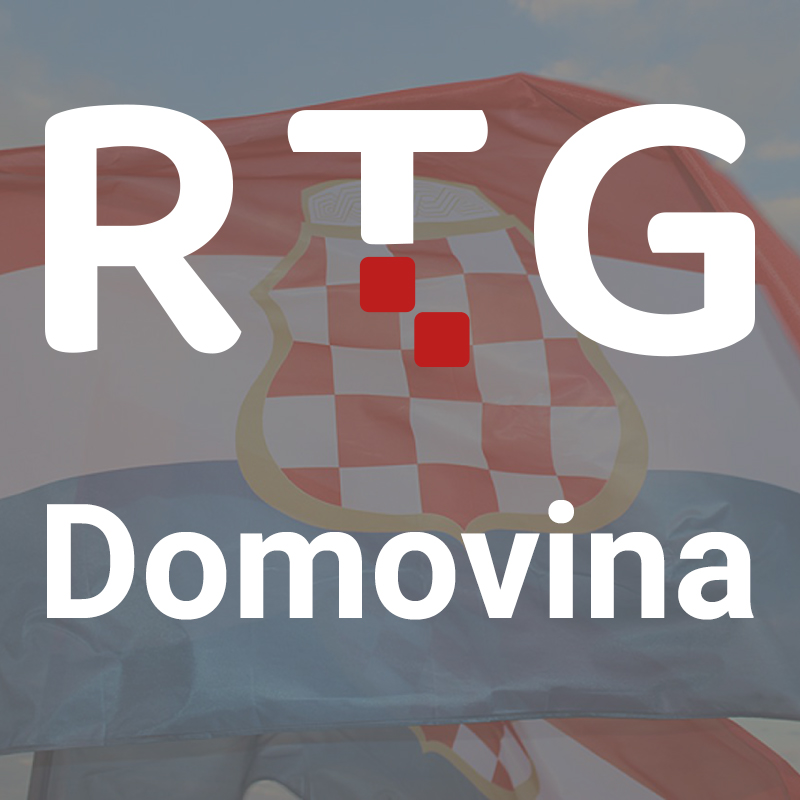
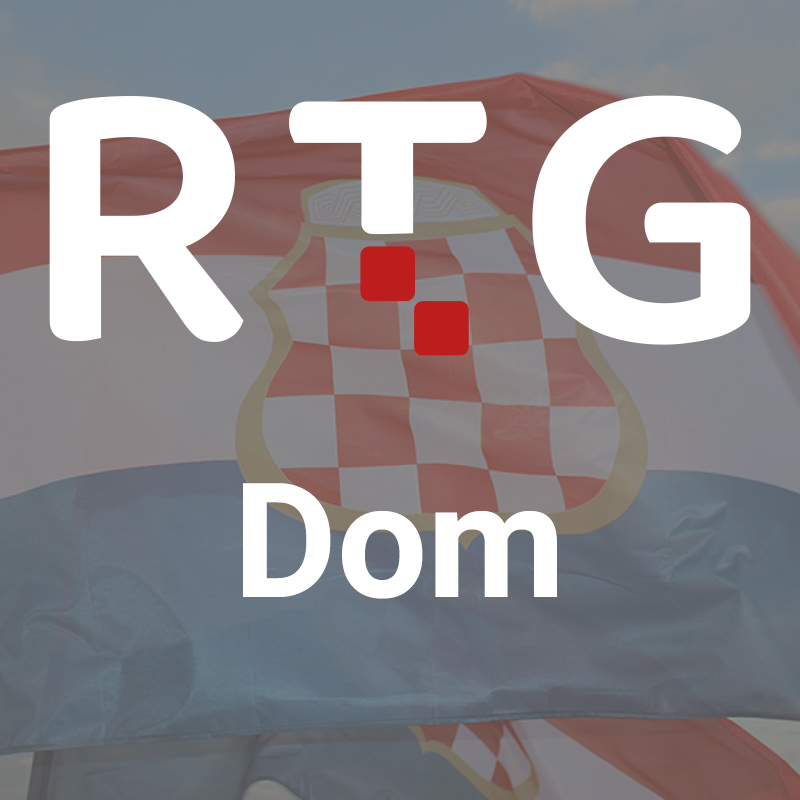
Little fixes and update on android app component

diff --git a/src/data/local/ShowCardData.js b/src/data/local/ShowCardData.js
@@ -13,7 +13,7 @@ export const showCardData = [
     imageUrl: "../../assets/img_strunica.jpg",
     showDescription:
       "Emisija o bastini i narodnim obicajima, Nas voditelj Cipa svake srijede za vas priprema najbolje iz svijeta gange, gusala i narodnih obicaja.",
-    showAirTime: "Srijedom u 16:00",
+    showAirTime: "Srijedom u 16:30",
   },
   {
     showId: "02",
@@ -29,7 +29,7 @@ export const showCardData = [
     imageUrl: "../../assets/img_glazbaonica.jpg",
     showDescription:
       "Emisija koja kroz različite teme govori o glazbi koja se slušala i koja se sluša.",
-    showAirTime: "Utorkom u 16:00",
+    showAirTime: "Utorkom u 16:30",
   },
   {
     showId: "04",
@@ -37,7 +37,7 @@ export const showCardData = [
     imageUrl: "../../assets/img_razgovori.jpg",
     showDescription:
       "Emisija koja je to u pravom smislu riječi. U njoj o svome životu pričaju Duvanjke i Duvnjaci, koji žive ovdje ili negdje u svijetu.",
-    showAirTime: "Ponedjeljkom u 16:00",
+    showAirTime: "Ponedjeljkom u 16:30",
   },
   {
     showId: "05",
@@ -45,7 +45,7 @@ export const showCardData = [
     imageUrl: "../../assets/img_obiteljski.jpg",
     showDescription:
       "Emisije iz arhiva Radija Tomislavgrad. Kroz zvučne zapise listamo stranice obiteljskih uspomena.",
-    showAirTime: "Petkom u 16:00",
+    showAirTime: "Subotom u 16:30",
   },
   {
     showId: "06",
@@ -53,7 +53,7 @@ export const showCardData = [
     imageUrl: "../../assets/img_slusam.jpg",
     showDescription:
       "Edukativna radio slagalica. Emisija o kulturi, znanosti, umjetnosti, ljudima, događajima i pojavama.",
-    showAirTime: "Ponedjeljkom u 16:00",
+    showAirTime: "Ponedjeljkom u 16:30",
   },
   {
     showId: "07",

diff --git a/src/components/AndroidApp.component.jsx b/src/components/AndroidApp.component.jsx
@@ -9,6 +9,10 @@ import {
 
 import BtnFeature from "./BtnFeature.component";
 
+const goToGooglePlayStore = () => {
+  console.log("Go to Google play");
+};
+
 const AndroidApp = () => {
   const [element, controls] = useScroll();
 
@@ -51,15 +55,14 @@ const AndroidApp = () => {
             ref={element}
             className="text-white"
           >
-            Molim vrijednu pcelicu da osmisli nesto genijalno i ovde. Lorem
-            ipsum dolor sit amet, consectetur adipiscing elit. Maecenas et metus
-            dignissim, rhoncus purus at, varius nisl. Nullam ac viverra nisl.
-            Mauris tempus lectus ut odio porttitor, quis lacinia felis
-            sollicitudin. Suspendisse mauris enim, posuere ac justo eget,
-            elementum vulputate nibh. Nulla sit amet dolor in lacus porttitor
-            ullamcorper vel sit amet risus.
+            Preuzmite našu aplikaciju potpuno besplatno s Google play store-a.
+            Nadoknadite propuštene emisije, slušajte RTG Music te još mnogo
+            drugog sadržaja.
           </motion.p>
-          <BtnFeature title="Preuzmite s Google play" />
+          <BtnFeature
+            title="Preuzmite s Google "
+            onClick={goToGooglePlayStore}
+          />
         </div>
       </div>
     </section>

diff --git a/src/components/StreamsSection.component.jsx b/src/components/StreamsSection.component.jsx
@@ -34,7 +34,7 @@ const StreamsSection = ({
     >
       <div className="max-w-con w-full flex justify-start items-center z-10">
         <div className="py-20 w-full">
-          <SectionTitle title="RTG streamovi" />
+          <SectionTitle title="RTG kanali" />
           <motion.p
             variants={revelTextFromLeft}
             initial="hidden"
@@ -82,7 +82,7 @@ const StreamsSection = ({
             />
             <StreamCard
               image={patriotStreamImage}
-              title="RTG Domovina"
+              title="RTG Dom"
               onClick={() => {
                 startRtgDomovina();
               }}

diff --git a/src/components/BtnFeature.component.jsx b/src/components/BtnFeature.component.jsx
@@ -18,6 +18,13 @@ const BtnFeature = ({ title, onClick }) => {
         className="bg-blue-400 p-4 mt-20 text-white rounded-md cursor-pointer hover:bg-blue-800 transition-all"
       >
         {title}
+        <a
+          href="https://play.google.com/store/apps/details?id=com.milictg.radiotg"
+          target="_blank"
+          rel="noreferrer"
+        >
+          play
+        </a>
       </motion.button>
     </AnimatePresence>
   );

diff --git a/src/components/StreamMenuCard.component.jsx b/src/components/StreamMenuCard.component.jsx
@@ -84,7 +84,7 @@ const StreamMenuCard = ({
           <li className="py-2  flex justify-center flex-col items-center">
             <StreamCard
               image={patriotStreamImage}
-              title={"RTG Domovina"}
+              title={"RTG Dom"}
               onClick={() => {
                 startRtgDomovina();
                 close();

diff --git a/src/components/NavMenu.component.jsx b/src/components/NavMenu.component.jsx
@@ -81,7 +81,7 @@ const NavMenu = ({ hidden, close }) => {
             onClick={close}
           >
             <span className="w-full bg-blue-400 px-20 py-4 text-white rounded-md cursor-pointer hover:bg-blue-800 transition-all">
-              RTG streamovi
+              RTG programi
             </span>
           </Link>
         </li>

diff --git a/src/components/Player.component.jsx b/src/components/Player.component.jsx
@@ -61,7 +61,7 @@ const Player = ({
         title === "RTG Frama" ||
         title === "RTG Baština" ||
         title === "RTG Dječji" ||
-        title === "RTG Domovina" ? (
+        title === "RTG Dom" ? (
           <p></p>
         ) : (
           <div className="flex flex-row justify-evenly w-full mt-8">

diff --git a/src/pages/Main.page.jsx b/src/pages/Main.page.jsx
@@ -337,7 +337,7 @@ const Main = () => {
   const startRtgDomovina = async () => {
     await setCurrentAudio({
       playerImage: playerImageDomovina,
-      playerTitle: "RTG Domovina",
+      playerTitle: "RTG Dom",
       playerSubTitle: "Uvijek svoj na svome",
       playerUrl: RtgDomovinaStream,
     });
